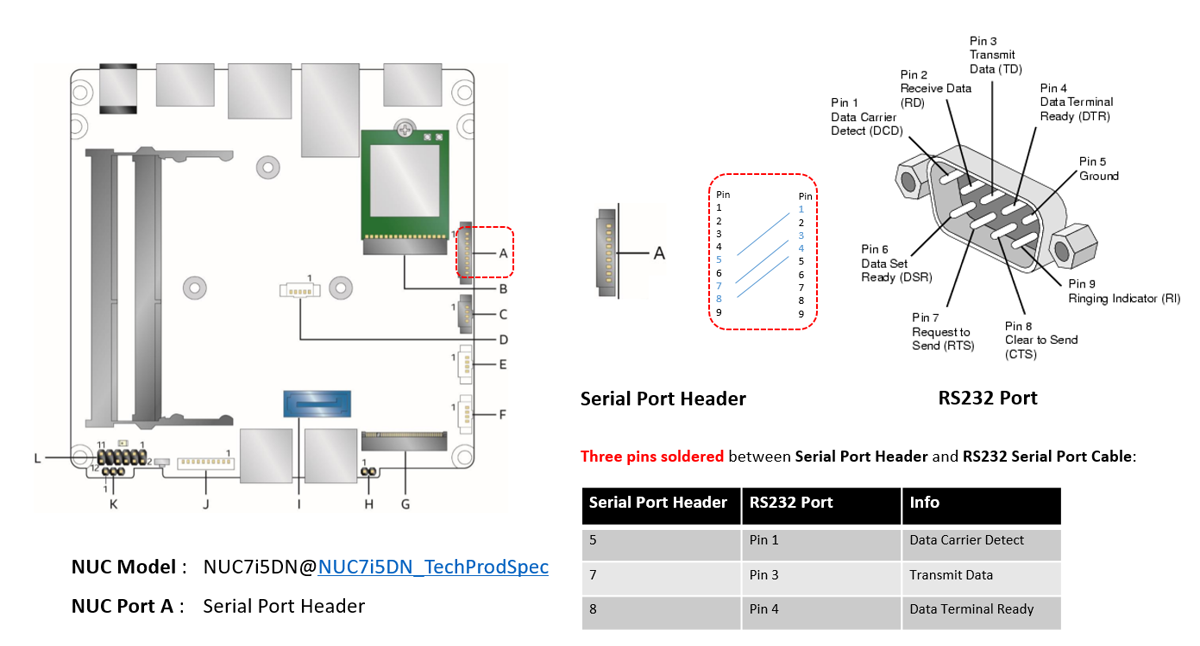
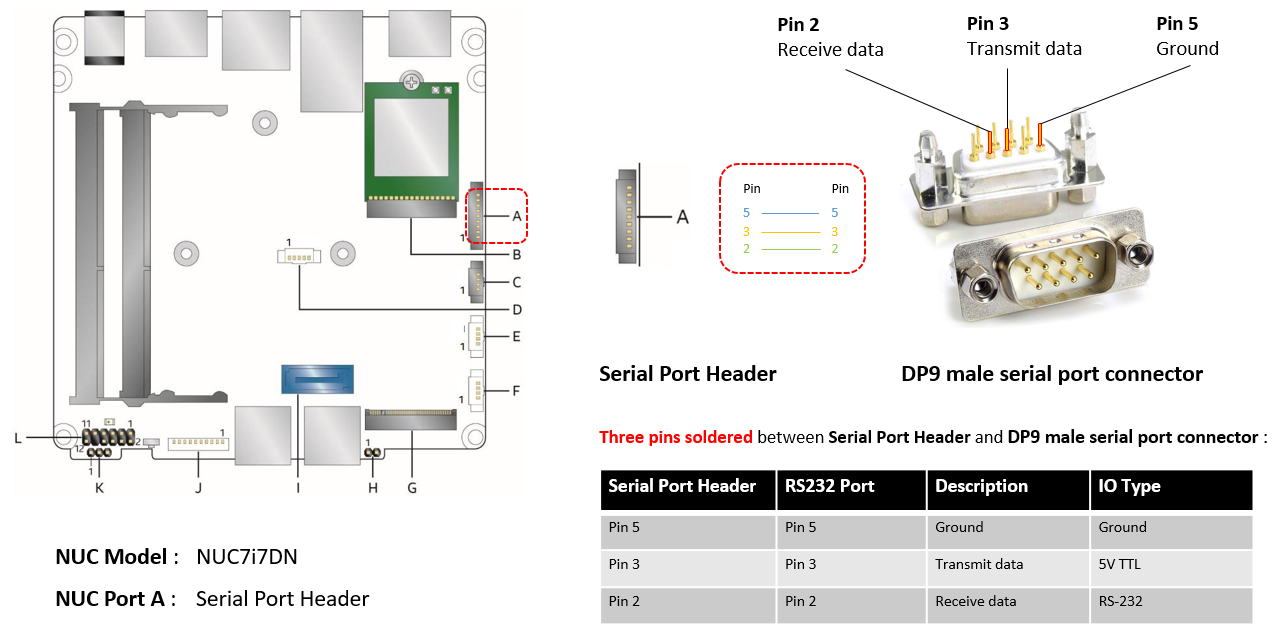
doc: Update the diagram of KBL NUC serial port rework
Update the connection of serial port rework for KBL NUC

Signed off by: Xie, Zhengtian<zhengtian.xie@intel.com>

diff --git a/doc/getting-started/apl-nuc.rst b/doc/getting-started/apl-nuc.rst
@@ -14,26 +14,27 @@ Intel Apollo Lake NUC (APL) and Intel Kaby Lake NUC (KBL),
 described in :ref:`hardware`, are currently supported for ACRN development:
 
 - We can enable the serial console on `KBL
-  <https://www.amazon.com/dp/B07D5HHMSB/ref=cm_sw_r_cp_ep_dp_hXm0BbBV0CER3>`__
-  (NUC7i5DNHE), but this is not supported on APL (NUC6CAYH).
+  <https://www.amazon.com/Intel-Business-Mini-Technology-BLKNUC7i7DNH1E/dp/B07CCQ8V4R>`__
+  (NUC7i7DN), but this is not supported on APL (NUC6CAYH).
 
 
 Connecting to the serial port
 =============================
 
-If you don't need a serial console you can ignore this section. If you're
-using a KBL NUC and you need a serial console, you'll need to prepare
-an RS232 cable to connect to the KBL NUC serial port header, as shown
-below:
+If you don't need a serial console you can ignore this section. 
+
+Neither the APL or KBL NUCs present an external serial port interface.
+However, the KBL NUC does have a serail port header you can
+expose with a serial DB9 header cable. You can build this cable yourself,
+referring to the `KBL NUC product specification
+<https://www.intel.com/content/dam/support/us/en/documents/mini-pcs/nuc-kits/NUC7i7DN_TechProdSpec.pdf>`__
+as shown below: 
+
 
 .. figure:: images/KBL-serial-port-header.png
    :align: center
 
-   KBL Serial port header details
-
-You can refer to the `'Technical Product Specification'
-<https://www.intel.com/content/dam/support/us/en/documents/boardsandkits/NUC7i5DN_TechProdSpec.pdf>`__
-for details
+   KBL serial port header details
 
 
 .. figure:: images/KBL-serial-port-header-to-RS232-cable.jpg
@@ -42,6 +43,20 @@ for details
    KBL `serial port header to RS232 cable
    <https://www.amazon.com/dp/B07BV1W6N8/ref=cm_sw_r_cp_ep_dp_wYm0BbABD5AK6>`_
 
+
+Or you can `purchase
+<https://www.amazon.com/dp/B07BV1W6N8/ref=cm_sw_r_cp_ep_dp_wYm0BbABD5AK6>`_
+such a cable.
+
+You'll also need an `RS232 DB9 female to USB cable
+<https://www.amazon.com/Adapter-Chipset-CableCreation-Converter-Register/dp/B0769DVQM1>`__,
+or an `RS232 DB9 female/female (NULL modem) cross-over cable
+<https://www.amazon.com/SF-Cable-Null-Modem-RS232/dp/B006W0I3BA>`__
+to connect to your host system.
+
+.. note::
+   If you want to use the RS232 DB9 female/female cable, please choose 
+   the ``cross-over`` type rather than ``straight-through`` type.
 
 Firmware update on the NUC
 ==========================
